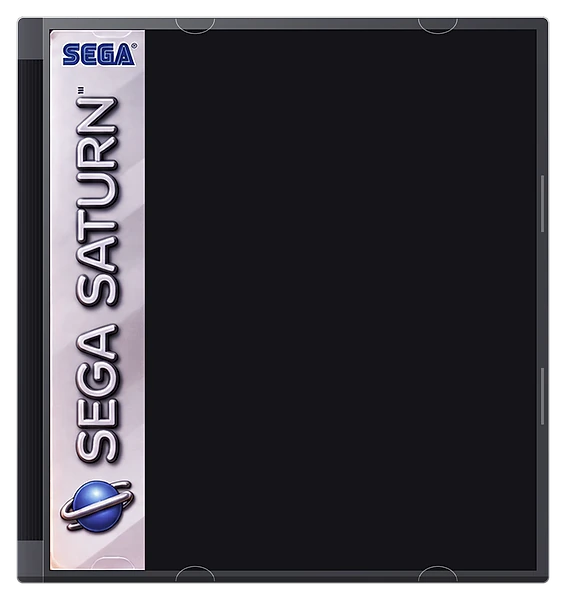
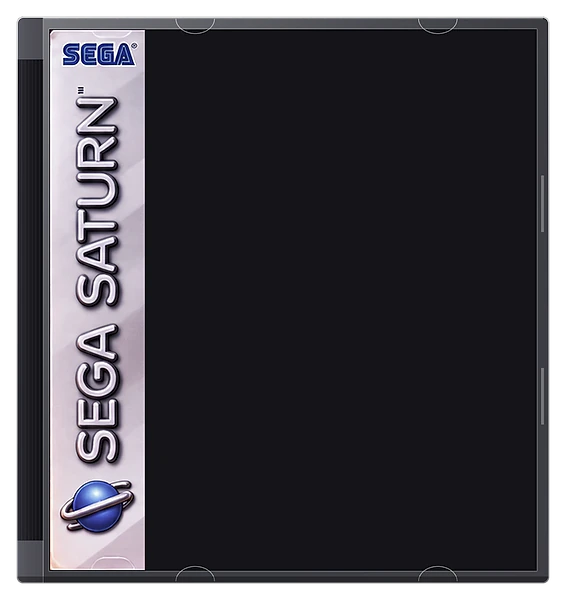
Final shelf polish: roomier cases, readable captions, quieter materials
- Jewel cases take more of their bay than cartridges (same columns, smaller gap),
  so covers read about 8-10% larger and scale with the container.
- Shelf captions: a ShelfCaption component, two balanced lines at a fixed height;
  a clipped title shows in full on hover and keyboard focus.
- Label titles shrink only as far as their longest word needs, so a long word is
  no longer cut mid-letter on the label.
- Materials: a soft highlight masked to each shell's outline (under the label), a
  contact shadow on the shelf, thin rim highlights on the jewel cases, and a
  softer hover glow.
- Dev route indicator moved off the sidebar tagline (development only).

Changed region(s): [[0.3905, 0.03, 0.9611, 0.06], [0.1201, 0.03, 0.2403, 0.06], [0.3004, 0.03, 0.3304, 0.06]]

diff --git a/src/components/shelf/shelf-browser.tsx b/src/components/shelf/shelf-browser.tsx
@@ -22,7 +22,9 @@ import {
 import { cn } from "@/lib/utils";
 
 import { GameMedia } from "./game-media";
+import { isDiscCase } from "./media-shells";
 import { ShelfBoard, ShelfFillers, ShelfLight } from "./shelf-parts";
+import { ShelfCaption } from "./shelf-caption";
 
 type View = "shelf" | "list";
 
@@ -208,6 +210,16 @@ export function ShelfBrowser({
 
 type ViewProps = { games: readonly ShelfGame[]; media: MediaKind; systemLabel: string; gameHref: (game: ShelfGame) => string };
 
+/**
+ * How much of its bay an item fills. Cartridges are wide and short, so they keep a
+ * roomier gap; a jewel case is nearly square and its cover is the thing to look at, so
+ * it takes more of the bay's width (a few pixels of gap still part neighbours). The
+ * columns stay the same; only the gap changes, so the size follows the container.
+ */
+function bayInset(media: MediaKind) {
+  return isDiscCase(media) ? "mx-0.5 px-0.5 sm:mx-1 sm:px-0.5" : "mx-1 px-1 sm:mx-1.5 sm:px-1.5";
+}
+
 function ShelfView({ games, media, systemLabel, gameHref }: ViewProps) {
   return (
     <div className="wood-frame rounded-xl p-1.5 shadow-[0_24px_60px_-20px_rgb(0_0_0/0.8)] sm:p-2.5">
@@ -217,7 +229,10 @@ function ShelfView({ games, media, systemLabel, gameHref }: ViewProps) {
             <ShelfLight />
             <Link
               href={gameHref(game)}
-              className="group relative mx-1 mt-5 mb-1 flex flex-1 flex-col items-center justify-end rounded-lg px-1 pt-2 pb-1 outline-none focus-visible:ring-2 focus-visible:ring-ring sm:mx-1.5 sm:px-1.5"
+              className={cn(
+                "group relative mt-5 mb-1 flex flex-1 flex-col items-center justify-end rounded-lg pt-2 pb-1 outline-none focus-visible:ring-2 focus-visible:ring-ring",
+                bayInset(media),
+              )}
             >
               <span className="relative w-full transition-transform duration-300 group-hover:-translate-y-1 group-focus-visible:-translate-y-1 motion-reduce:transition-none motion-reduce:group-hover:translate-y-0">
                 <GameMedia
@@ -231,13 +246,7 @@ function ShelfView({ games, media, systemLabel, gameHref }: ViewProps) {
                   interactive
                 />
               </span>
-              <span className="mt-2.5 line-clamp-2 min-h-[2lh] w-full text-center text-[0.72rem] leading-snug font-medium text-balance text-stone-200 transition-colors group-hover:text-white sm:text-xs">
-                {game.favorite ? (
-                  <Star aria-hidden="true" className="mr-1 inline size-3 -translate-y-px fill-amber-300 text-amber-300" />
-                ) : null}
-                {game.title}
-                {game.favorite ? <span className="sr-only"> (favorite)</span> : null}
-              </span>
+              <ShelfCaption title={game.title} favorite={game.favorite} />
             </Link>
             <ShelfBoard />
           </li>

diff --git a/src/components/shelf/game-media.tsx b/src/components/shelf/game-media.tsx
@@ -89,6 +89,16 @@ function Motif({ motif, glow }: { motif: LabelMotif; glow: string }) {
 const fit = (byWidth: number, byHeight: number) => `min(${byWidth}cqi, ${byHeight}cqb)`;
 
 /**
+ * The label title's size: as large as the label allows, but small enough that its
+ * longest word fits the width (about 88% of it is free of padding; a bold capital is
+ * about 0.7 em wide), so a long word like CASTLEVANIA: isn't clipped mid-letter.
+ */
+function titleSize(title: string) {
+  const longest = Math.max(...title.split(/\s+/).map((word) => word.length));
+  return `min(14cqi, 27cqb, ${(88 / (longest * 0.7)).toFixed(2)}cqi)`;
+}
+
+/**
  * A copy's physical media, sized by its parent's width. `title` is printed on the label
  * and `systemLabel` on its bottom band. Decorative: callers give the accessible name.
  * `sizes` is the rendered width, for the image's responsive sources. `framed` stands it in
@@ -125,6 +135,12 @@ export function GameMedia({
   const object = (
     <div className={cn("relative w-full media-shadow", interactive && "group-hover:media-glow group-focus-visible:media-glow")}>
       <Image src={shell.image} alt="" sizes={sizes} priority={priority} draggable={false} className="block h-auto w-full" />
+      {/* Molded plastic: one soft highlight from the shelf light, kept to the shell's own
+          outline and under the label, so the print stays untouched. */}
+      <div
+        className="pointer-events-none absolute inset-0 bg-[linear-gradient(118deg,rgb(255_255_255/0.13)_0%,rgb(255_255_255/0.035)_30%,transparent_48%,transparent_78%,rgb(0_0_0/0.12)_100%)]"
+        style={{ maskImage: `url(${shell.image.src})`, maskSize: "100% 100%", WebkitMaskImage: `url(${shell.image.src})`, WebkitMaskSize: "100% 100%" }}
+      />
       <div
         className="absolute overflow-hidden shadow-[inset_0_0_0_1px_rgb(0_0_0/0.5),inset_0_1px_3px_rgb(0_0_0/0.45)]"
         style={{
@@ -146,7 +162,7 @@ export function GameMedia({
         >
           <p
             className="line-clamp-2 leading-[1.02] font-extrabold tracking-[-0.015em] text-white uppercase [text-shadow:0_1px_1px_rgb(0_0_0/0.7)]"
-            style={{ fontSize: fit(14, 27) }}
+            style={{ fontSize: titleSize(title) }}
           >
             {title}
           </p>
@@ -176,9 +192,11 @@ export function GameMedia({
   return (
     <div
       aria-hidden="true"
-      className={cn("w-full select-none", framed && "flex items-end", className)}
+      className={cn("relative w-full select-none", framed && "flex items-end", className)}
       style={framed ? { aspectRatio: frameAspect(kind) } : undefined}
     >
+      {/* Contact shadow where the object meets the shelf. */}
+      <span className="pointer-events-none absolute inset-x-[6%] bottom-0 h-[6px] translate-y-1/2 rounded-[50%] bg-black/60 blur-[3px]" />
       {object}
     </div>
   );

diff --git a/src/components/shelf/shelf-caption.tsx b/src/components/shelf/shelf-caption.tsx
@@ -1,0 +1,58 @@
+"use client";
+
+import { Star } from "lucide-react";
+import { useLayoutEffect, useRef, useState } from "react";
+
+import { cn } from "@/lib/utils";
+
+/**
+ * A title under an item on the shelf: centred, at most two lines, always two lines tall
+ * so every item on a shelf lines up. A title cut short shows in full on hover and
+ * keyboard focus of its link (the `group`); screen readers and touch users get the full
+ * title from the link's text and the game page it opens.
+ */
+export function ShelfCaption({ title, favorite }: { title: string; favorite: boolean }) {
+  const ref = useRef<HTMLSpanElement>(null);
+  const [cut, setCut] = useState(false);
+
+  useLayoutEffect(() => {
+    const el = ref.current;
+    if (!el) return;
+    const measure = () => setCut(el.scrollHeight > el.clientHeight + 1);
+    measure();
+    const observer = new ResizeObserver(measure);
+    observer.observe(el);
+    return () => observer.disconnect();
+  }, [title]);
+
+  const text = (
+    <>
+      {favorite ? <Star aria-hidden="true" className="mr-1 inline size-3 shrink-0 -translate-y-px fill-amber-300 text-amber-300" /> : null}
+      {title}
+    </>
+  );
+
+  return (
+    <span className="relative mt-2.5 block w-full">
+      <span
+        ref={ref}
+        className="line-clamp-2 min-h-[2lh] w-full text-center text-[0.72rem] leading-snug font-medium text-balance break-words text-stone-200 transition-colors group-hover:text-white sm:text-xs"
+      >
+        {text}
+        {favorite ? <span className="sr-only"> (favorite)</span> : null}
+      </span>
+      {cut ? (
+        // The full title, laid over the clipped one; decorative, as the text above is complete.
+        <span
+          aria-hidden="true"
+          className={cn(
+            "pointer-events-none absolute -inset-x-1 top-[-0.25rem] z-20 hidden rounded-md border border-white/10 bg-[#141218]/95 px-1.5 py-1 text-center text-[0.72rem] leading-snug font-medium text-balance break-words text-white shadow-[0_8px_20px_-6px_rgb(0_0_0/0.9)] sm:text-xs",
+            "group-hover:block group-focus-visible:block",
+          )}
+        >
+          {text}
+        </span>
+      ) : null}
+    </span>
+  );
+}

diff --git a/src/components/shelf/media-shells.ts b/src/components/shelf/media-shells.ts
@@ -50,8 +50,10 @@ const RADIUS: Record<ShellKey, string> = {
   saturn: "0.5%",
 };
 
+const CASE_KEYS: ReadonlySet<ShellKey> = new Set(["playstation", "saturn"]);
+
 function shell(key: ShellKey): Shell {
-  return { image: IMAGES[key], label: manifest.media[key].label, radius: RADIUS[key], isCase: key === "playstation" || key === "saturn" };
+  return { image: IMAGES[key], label: manifest.media[key].label, radius: RADIUS[key], isCase: CASE_KEYS.has(key) };
 }
 
 const KEYS: Record<MediaKind, readonly ShellKey[]> = {
@@ -72,6 +74,11 @@ const KEYS: Record<MediaKind, readonly ShellKey[]> = {
 export function shellFor(kind: MediaKind, region: Region): Shell {
   if (kind === "snes-cart") return shell(region === "NTSC-U" ? "snes-ntsc-u" : "snes-pal");
   return shell(KEYS[kind][0]);
+}
+
+/** Disc media in a jewel case, as opposed to a cartridge. */
+export function isDiscCase(kind: MediaKind) {
+  return kind === "ps1-case" || kind === "saturn-case";
 }
 
 /**

diff --git a/next.config.ts b/next.config.ts
@@ -3,6 +3,8 @@ import type { NextConfig } from "next";
 const nextConfig: NextConfig = {
   /* config options here */
   cacheComponents: true,
+  // Development only: the route indicator sat over the sidebar's tagline.
+  devIndicators: { position: "bottom-right" },
   experimental: {
     serverActions: {
       // M11a-3: room for a 2 MB avatar and the multipart framing around it

diff --git a/src/app/globals.css b/src/app/globals.css
@@ -235,5 +235,5 @@
 }
 
 @utility media-glow {
-  filter: drop-shadow(0 2px 1.5px rgb(0 0 0 / 65%)) drop-shadow(0 0 9px rgb(139 92 246 / 85%)) drop-shadow(0 10px 16px rgb(0 0 0 / 40%));
+  filter: drop-shadow(0 2px 1.5px rgb(0 0 0 / 65%)) drop-shadow(0 0 5px rgb(167 139 250 / 50%)) drop-shadow(0 12px 16px rgb(0 0 0 / 45%));
 }
